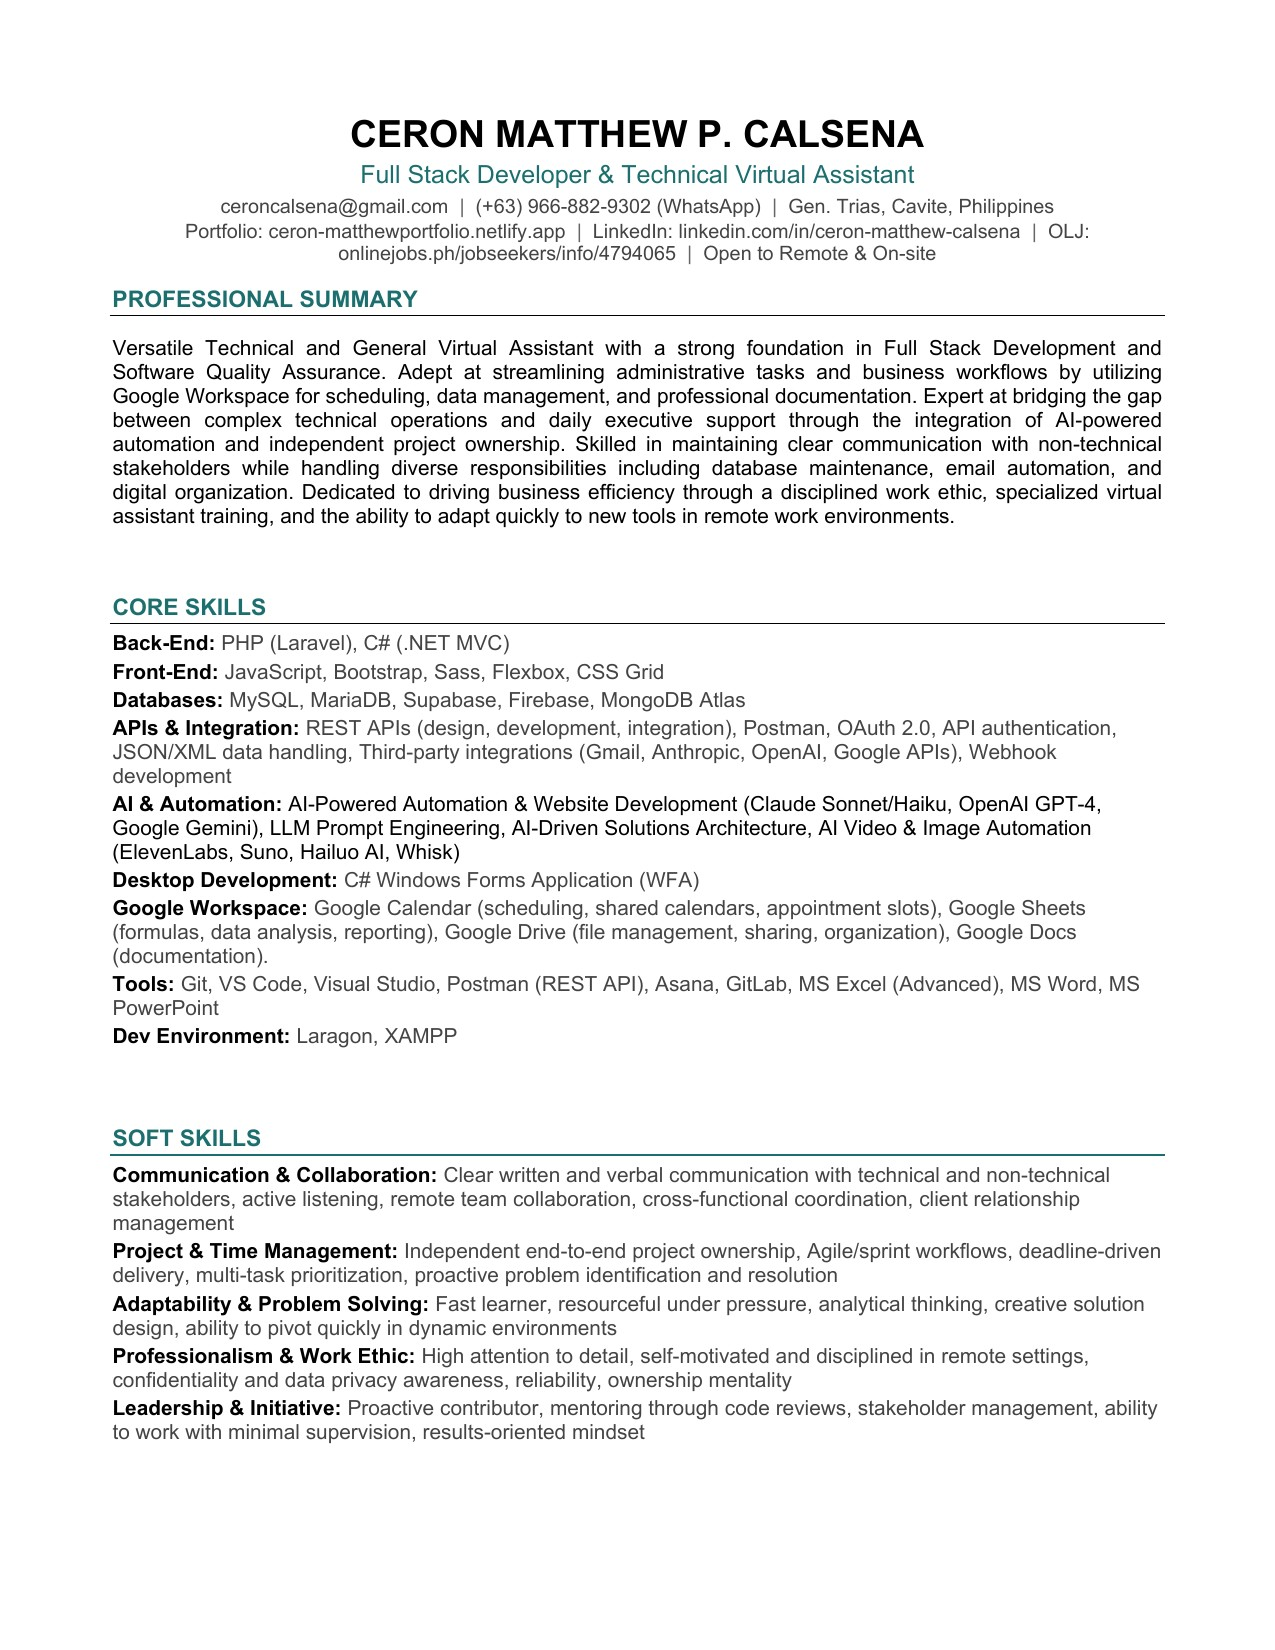
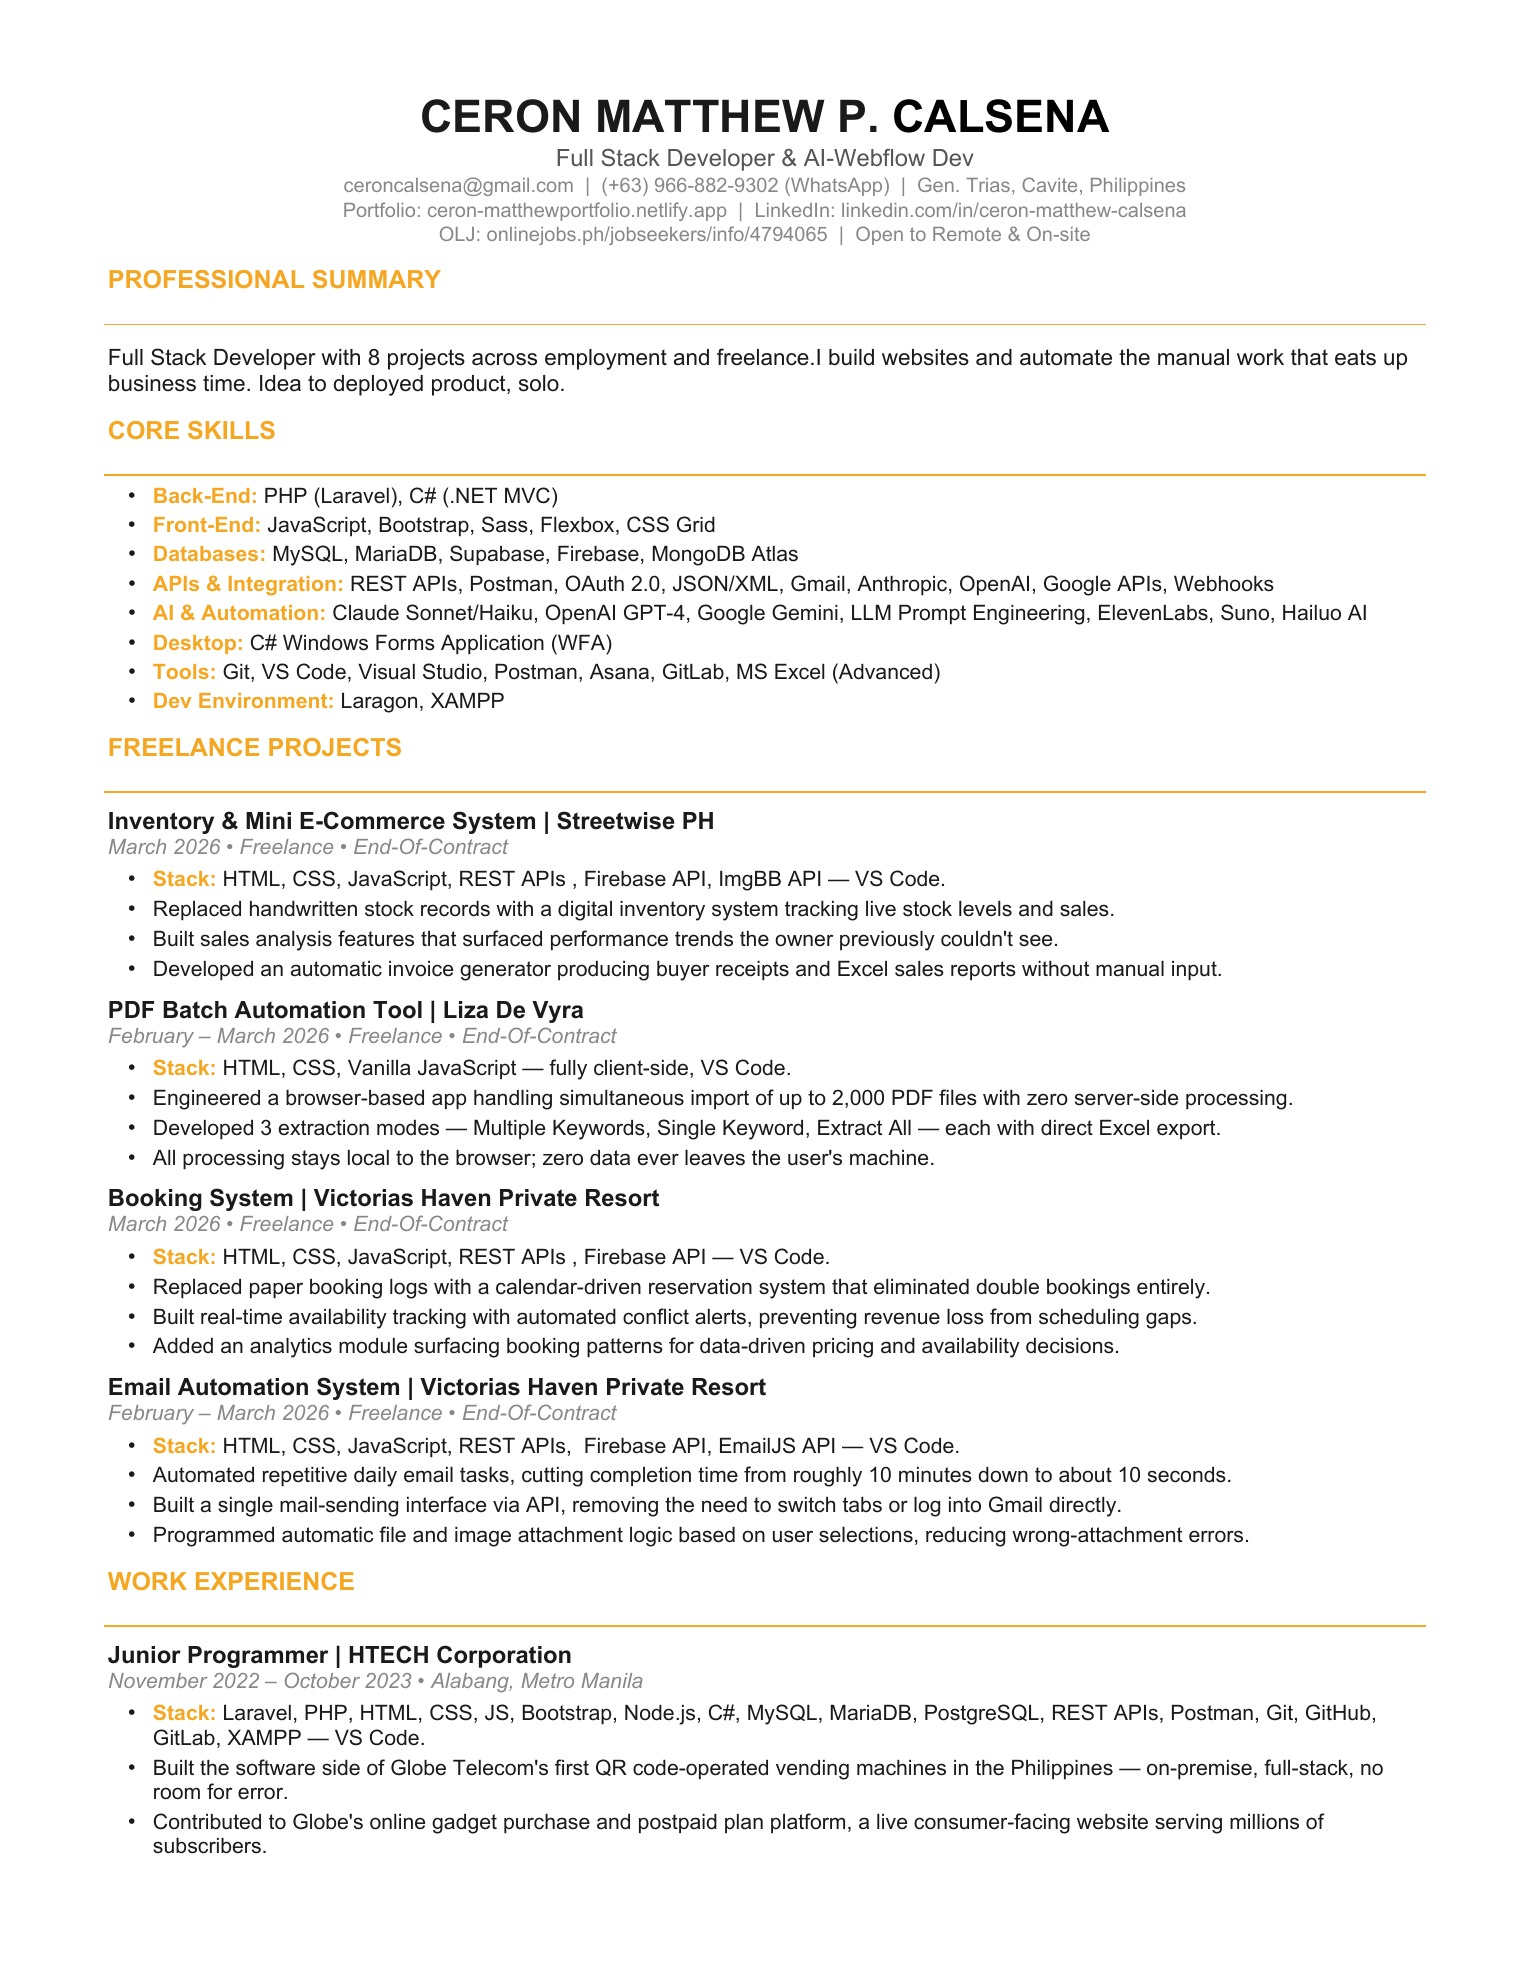
modify the resume section

Changed region(s): [[0.0612, 0.0309, 0.9176, 0.9582]]

diff --git a/index.html b/index.html
@@ -2196,7 +2196,7 @@
                 <div>
                   <p class="resume-filename">Ceron Calsena Resume</p>
                   <p class="resume-meta">
-                    Full Stack Developer + Virtual Assistant · Updated April 2026
+                    Full Stack Developer & AI-Webflow Dev · Updated April 2026
                   </p>
                 </div>
               </div>
@@ -2210,7 +2210,7 @@
                 </a>
                 <a
                   href="ATS.pdf"
-                  download="Ceron_Calsena_Resume.pdf"
+                  download="Ceron_Calsena_Resume_new_9.pdf"
                   class="resume-btn resume-btn-download"
                 >
                   <span>⬇ Download</span>

diff --git a/js/script.js b/js/script.js
@@ -295,7 +295,7 @@ if (toolsSection) {
   const pageNum     = document.getElementById('pageNum');
 
   const tabConfig = {
-    standard: { prefix: 'resume_previews/ats-page-',    ext: '.jpg', total: 4 },
+    standard: { prefix: 'resume_previews/ats-page-',    ext: '.jpg', total: 2 },
     visual:   { prefix: 'resume_previews/ENHANCE CURRICULUM VITAE_', ext: '.jpg', total: 7 }
   };
 
